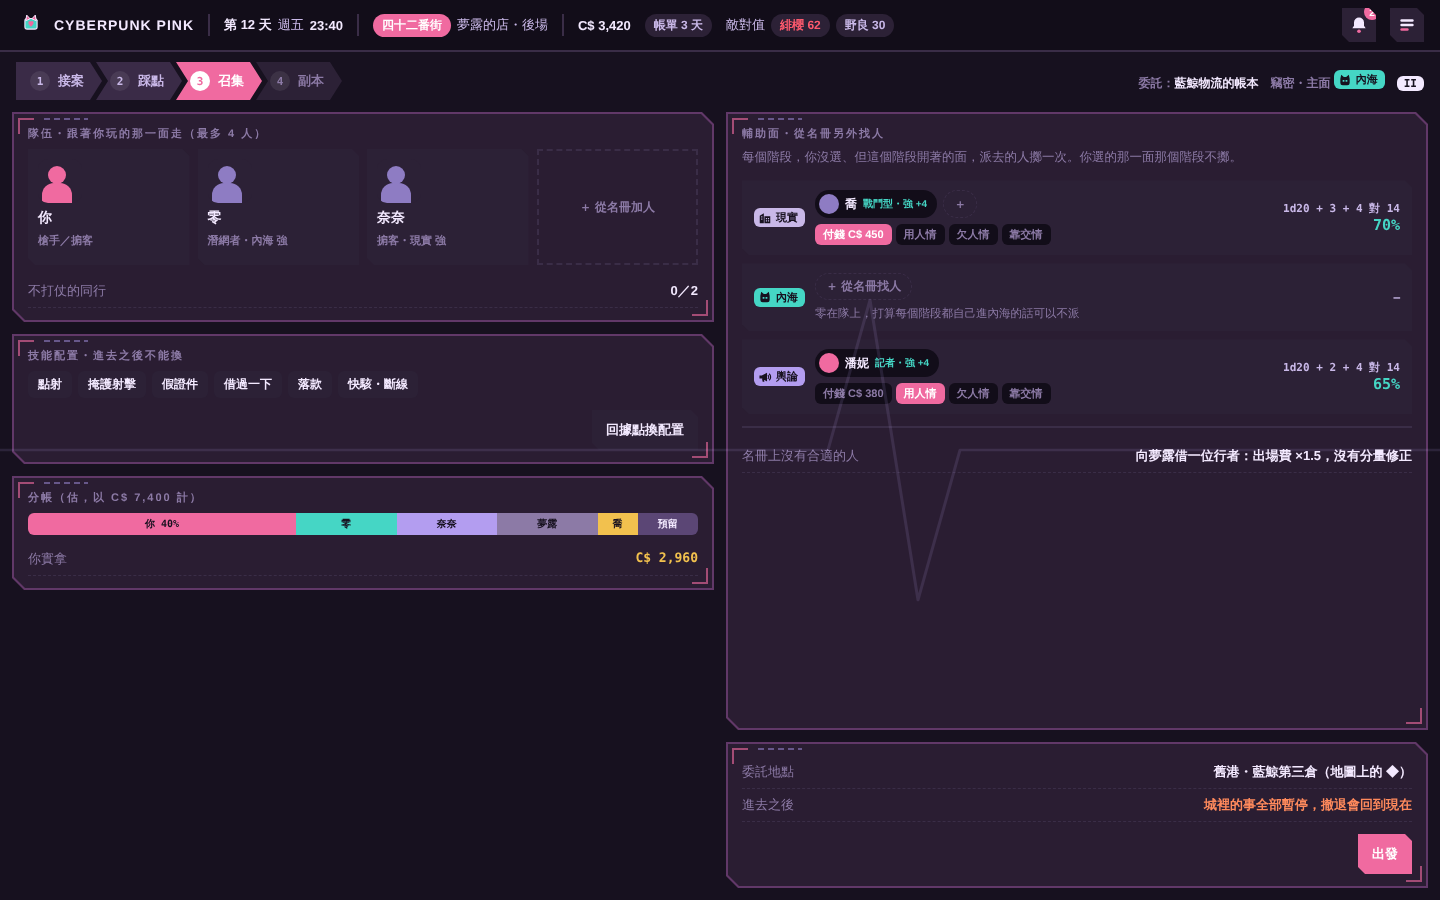
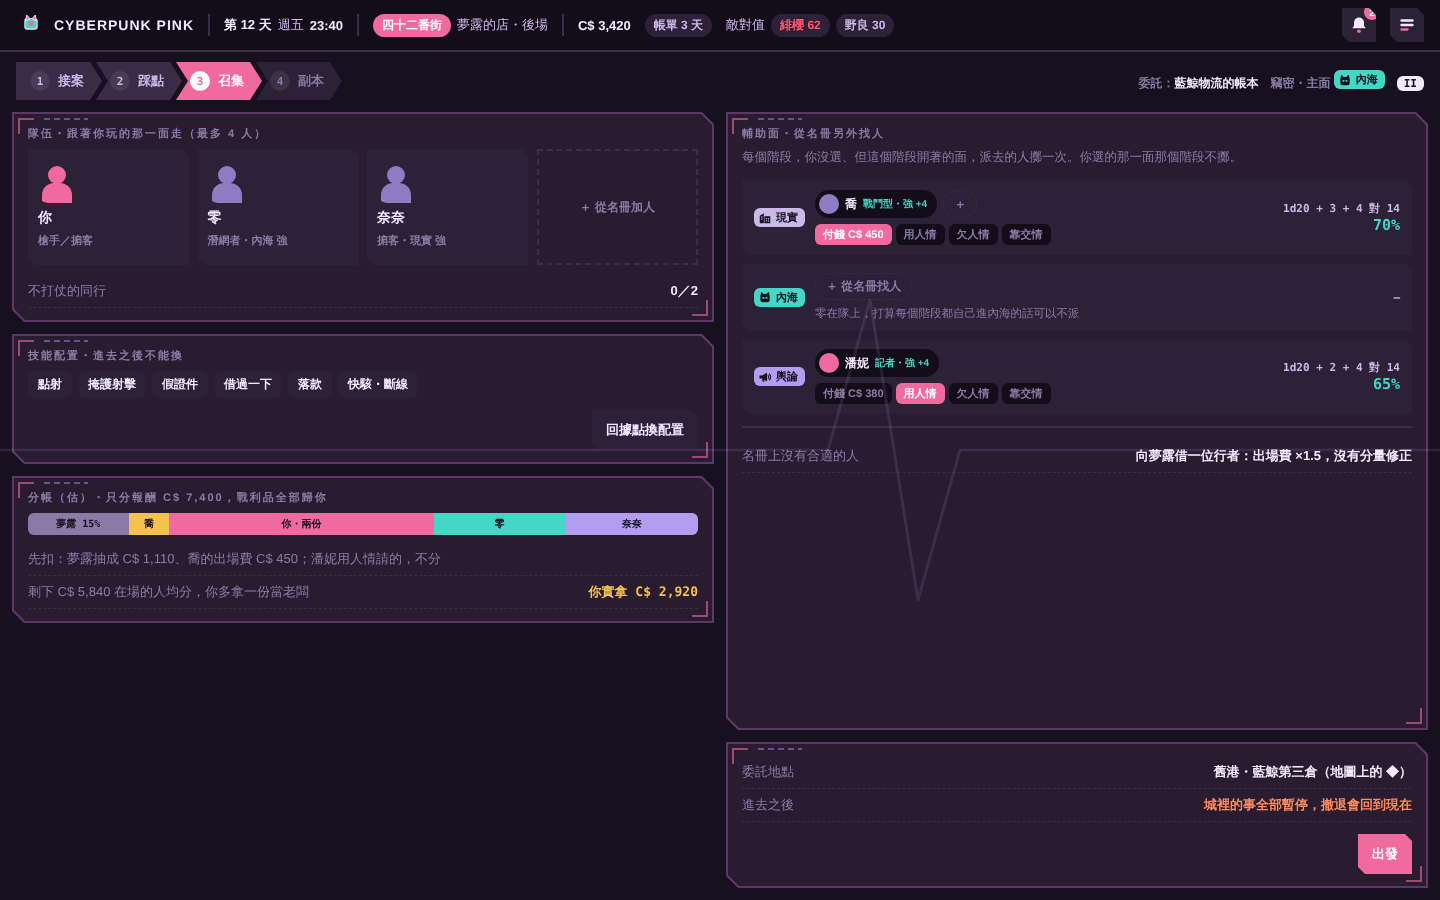
Rewards: only cash is split; loot goes to the protagonist. Fix call-up split in commission mockup
Claude-Session: https://claude.ai/code/session_0124r2xsQFC3dhqq7LTcHpFW

Changed region(s): [[0.0, 0.5289, 0.5, 0.6844]]

diff --git a/docs/mockups/commission.html b/docs/mockups/commission.html
@@ -479,7 +479,7 @@ body>*:not(.ecg):not(.fxl){position:relative;z-index:1}
     <div class="panel cut pad">
       <p class="h">這件事對你的帳</p>
       <div class="kv"><span>帳單</span><b>3 天後 C$ 1,800</b></div>
-      <div class="kv"><span>談成後的分帳（估）</span><b class="mono" style="color:var(--ap)">C$ 6,290</b></div>
+      <div class="kv"><span>扣掉她的抽成後（估）</span><b class="mono" style="color:var(--ap)">C$ 6,290</b></div>
       <div class="kv"><span>會惹到的人</span><b style="color:#FF5A6E">藍鯨・夜鶯</b></div>
     </div>
   </div>
@@ -552,9 +552,10 @@ body>*:not(.ecg):not(.fxl){position:relative;z-index:1}
       <div class="go"><button class="btn cut-sm">回據點換配置</button></div>
     </div>
     <div class="panel cut pad">
-      <p class="h">分帳（估，以 C$ 7,400 計）</p>
-      <div class="split"><div style="flex:40;background:var(--a)">你 40%</div><div style="flex:15;background:var(--net)">零</div><div style="flex:15;background:var(--ep)">奈奈</div><div style="flex:15;background:var(--ink-3)">夢露</div><div style="flex:6;background:var(--ap)">喬</div><div style="flex:9;background:#5B4675;color:var(--ink)">預留</div></div>
-      <div class="kv" style="margin-top:8px"><span>你實拿</span><b class="mono" style="color:var(--ap)">C$ 2,960</b></div>
+      <p class="h">分帳（估）・只分報酬 C$ 7,400，戰利品全部歸你</p>
+      <div class="split"><div style="flex:1110;background:var(--ink-3)">夢露 15%</div><div style="flex:450;background:var(--ap)">喬</div><div style="flex:2920;background:var(--a)">你・兩份</div><div style="flex:1460;background:var(--net)">零</div><div style="flex:1460;background:var(--ep)">奈奈</div></div>
+      <div class="kv" style="margin-top:8px"><span>先扣：夢露抽成 C$ 1,110、喬的出場費 C$ 450；潘妮用人情請的，不分</span><b></b></div>
+      <div class="kv"><span>剩下 C$ 5,840 在場的人均分，你多拿一份當老闆</span><b class="mono" style="color:var(--ap)">你實拿 C$ 2,920</b></div>
     </div>
   </div>
   <div class="col">
